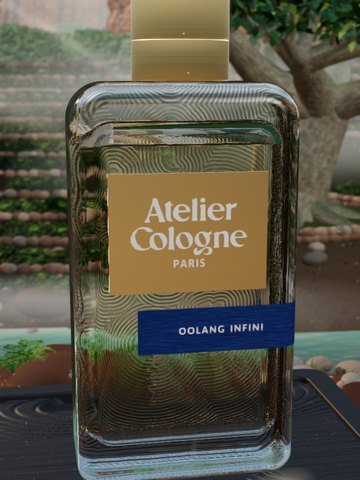
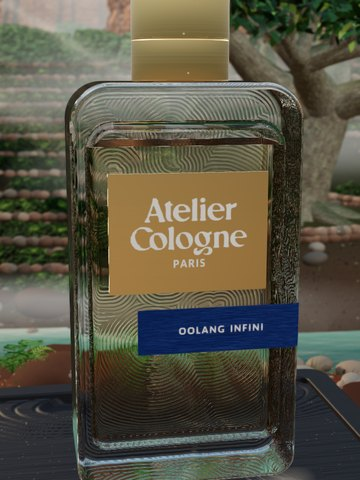
無極烏龍香境：瓶身圓角照實物——正面、背面四周改成小圓角，窄側面的上下緣維持大圓角；內腔跟著收緊
Claude-Session: https://claude.ai/code/session_01PqrgZkmayFsytv1H3rdgSD

Changed region(s): [[0.1833, 0.1562, 0.8556, 1.0], [0.9778, 0.7188, 1.0, 0.75], [0.4583, 0.8438, 0.4889, 0.875]]

diff --git a/CLAUDE.md b/CLAUDE.md
@@ -9,7 +9,7 @@
 - `esencia-3d.html`：LOEWE Esencia（100ml）的 3D 詳細頁；原始碼 `src/esencia-3d.src.html`，標籤貼圖 `src/tex_esencia_label*.jpg`
 - `gold-leaf-3d.html`：Ormonde Jayne Gold Leaf 茶路（88ml）的香境；原始碼 `src/gold-leaf-3d.src.html`，燙金字遮罩 `src/tex_gl_foil.png`（由 `tools/gl_foil.py` 依量測位置排字產生）
 - `fischersund-23-3d.html`：Fischersund No. 23（50ml）的香境；原始碼 `src/fischersund-23-3d.src.html`，印字遮罩 `src/tex_fs23_print.png`（`tools/fs23_print.py`，Inter SemiBold）。香材分層依品牌公布的金字塔（Fragrantica 只列平的 10 種），菸草放中調、海藻放後調
-- `oolang-infini-3d.html`：Atelier Cologne 無極烏龍（新版 Cologne Absolue 淡香精 100ml）的香境；原始碼 `src/oolang-infini-3d.src.html`，金屬標白字遮罩 `src/tex_oi_logo.png`、名牌字遮罩 `src/tex_oi_band.png`（`tools/oi_label.py`：標誌從官方照 `src/ref_oi_label.jpg` 取遮罩、PARIS 與 OOLANG INFINI 用 Carlito Bold 重排）；背面浮雕的字母遮罩 `src/tex_oi_letters.png`（`tools/oi_relief.py`：「Atelier」七個字母錯落的位置照 Yoyo 拍的背面照量測）。名牌與瓶蓋顏色照 Yoyo 的實拍（名牌是深寶藍、瓶蓋上段深海軍藍，官方照偏淺藍是調色過的）。主頁商品照換成新版瓶身 `photos/oolang-infini.jpg`（取自 LOOKFANTASTIC 官方去背照）；香材仍用 Fragrantica 的 8 種（Yoyo 決定），新版官方只列烏龍茶、佛手柑、愈創木。場景主題是台灣官方詩篇裡的「千年茶母樹」（溪對岸林間的老茶樹，預設視角在瓶子右邊），左邊崖壁刻著「大紅袍」（九龍窠母樹旁的石刻）
+- `oolang-infini-3d.html`：Atelier Cologne 無極烏龍（新版 Cologne Absolue 淡香精 100ml）的香境；原始碼 `src/oolang-infini-3d.src.html`，金屬標白字遮罩 `src/tex_oi_logo.png`、名牌字遮罩 `src/tex_oi_band.png`（`tools/oi_label.py`：標誌從官方照 `src/ref_oi_label.jpg` 取遮罩、PARIS 與 OOLANG INFINI 用 Carlito Bold 重排）；背面浮雕的字母遮罩 `src/tex_oi_letters.png`（`tools/oi_relief.py`：「Atelier」七個字母錯落的位置照 Yoyo 拍的背面照量測）。瓶身的圓角：正面、背面四周那一圈是小圓角（0.15），兩個窄側面的上緣下緣（從正面看是肩與瓶底的四個角）是大圓角（上 0.78、下 0.46）。名牌與瓶蓋顏色照 Yoyo 的實拍（名牌是深寶藍、瓶蓋上段深海軍藍，官方照偏淺藍是調色過的）。主頁商品照換成新版瓶身 `photos/oolang-infini.jpg`（取自 LOOKFANTASTIC 官方去背照）；香材仍用 Fragrantica 的 8 種（Yoyo 決定），新版官方只列烏龍茶、佛手柑、愈創木。場景主題是台灣官方詩篇裡的「千年茶母樹」（溪對岸林間的老茶樹，預設視角在瓶子右邊），左邊崖壁刻著「大紅袍」（九龍窠母樹旁的石刻）
 - 建置：`python3 tools/build3d.py all`（把 `__TEX_*__` 換成 data URI、輸出根目錄的 `*-3d.html`）
 
 ## 3D 香水詳細頁標準（Yoyo 逐輪要求，之後每支香水比照）
